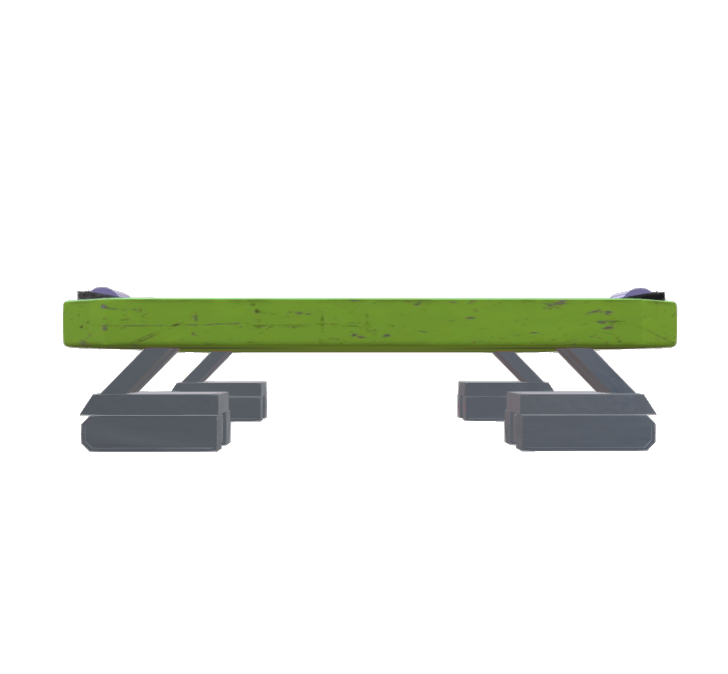
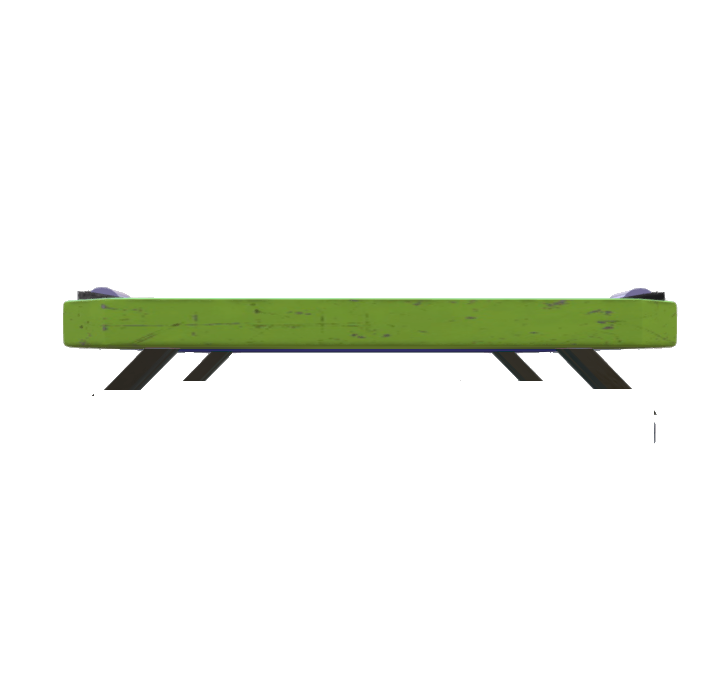
add landing pad texture

Changed region(s): [[0.0907, 0.4985, 0.9066, 0.6855]]

diff --git a/src/game.cpp b/src/game.cpp
@@ -323,6 +323,14 @@ Game::Game(int width, int height)
         SetTextureWrap(terrainTexture, TEXTURE_WRAP_REPEAT);
     }
 
+    // Load landing pad texture
+    landingPadTexture = LoadTexture("data/landing_pad.png");
+    if (landingPadTexture.id == 0) {
+        TraceLog(LOG_ERROR, "Failed to load landing pad texture: data/landing_pad.png");
+    } else {
+        TraceLog(LOG_INFO, "Successfully loaded landing pad texture");
+    }
+
     this->width = width;
     this->height = height;
     InitGame();
@@ -339,6 +347,7 @@ Game::~Game()
     UnloadMusicStream(backgroundMusic);
     UnloadTexture(backgroundTexture);
     UnloadTexture(terrainTexture);
+    UnloadTexture(landingPadTexture);
 }
 
 void Game::InitGame()
@@ -568,17 +577,38 @@ void Game::Draw()
     float padWidth = 100;
     float padHeight = 5;
     
-    // Draw main landing pad with a gradient
-    Color padColorLeft = (Color){ 150, 150, 150, 255 };   // Light gray
-    Color padColorRight = (Color){ 200, 200, 200, 255 };  // Lighter gray
-    DrawRectangleGradientH(landingPadX - padWidth/2, padY, padWidth, padHeight, padColorLeft, padColorRight);
-    
-    // Draw landing pad borders for better visibility
-    DrawRectangleLines(landingPadX - padWidth/2, padY, padWidth, padHeight, GREEN);
-    
-    // Draw landing pad leg supports
-    DrawLine(landingPadX - padWidth/2, padY + padHeight, landingPadX - padWidth/2 + 10, padY + 15, GREEN);
-    DrawLine(landingPadX + padWidth/2, padY + padHeight, landingPadX + padWidth/2 - 10, padY + 15, GREEN);
+    // Draw landing pad using texture
+    if (landingPadTexture.id != 0) {
+        // Calculate landing pad dimensions, maintaining aspect ratio
+        float aspectRatio = (float)landingPadTexture.width / landingPadTexture.height;
+        float drawHeight = 100.0f; // Adjust this value for desired pad height
+        float drawWidth = drawHeight * aspectRatio;
+        
+
+        Rectangle source = { 0, 0, (float)landingPadTexture.width, (float)landingPadTexture.height };
+        Rectangle dest = { landingPadX - drawWidth/2, padY - drawHeight/2 + 5.0f, drawWidth, drawHeight };
+        
+        // Draw the landing pad texture
+        DrawTexturePro(landingPadTexture, source, dest, (Vector2){0, 0}, 0.0f, WHITE);
+        
+        #ifdef DEBUG_COLLISION
+        // Draw a line representing landing pad collision surface for debugging
+        DrawLine(landingPadX - 50, padY, landingPadX + 50, padY, RED);
+        #endif
+    } else {
+        // Fallback to drawing rectangles if texture failed to load
+        // Draw main landing pad with a gradient
+        Color padColorLeft = (Color){ 150, 150, 150, 255 };   // Light gray
+        Color padColorRight = (Color){ 200, 200, 200, 255 };  // Lighter gray
+        DrawRectangleGradientH(landingPadX - padWidth/2, padY, padWidth, padHeight, padColorLeft, padColorRight);
+        
+        // Draw landing pad borders for better visibility
+        DrawRectangleLines(landingPadX - padWidth/2, padY, padWidth, padHeight, GREEN);
+        
+        // Draw landing pad leg supports
+        DrawLine(landingPadX - padWidth/2, padY + padHeight, landingPadX - padWidth/2 + 10, padY + 15, GREEN);
+        DrawLine(landingPadX + padWidth/2, padY + padHeight, landingPadX + padWidth/2 - 10, padY + 15, GREEN);
+    }
 
     // Draw lander
     lander->Draw();

diff --git a/src/game.h b/src/game.h
@@ -106,6 +106,7 @@ private:
     // Graphics
     Texture2D backgroundTexture;
     Texture2D terrainTexture;
+    Texture2D landingPadTexture;
 
     const float minTerrainHeight = 250;
     const float maxTerrainHeight = 50;
